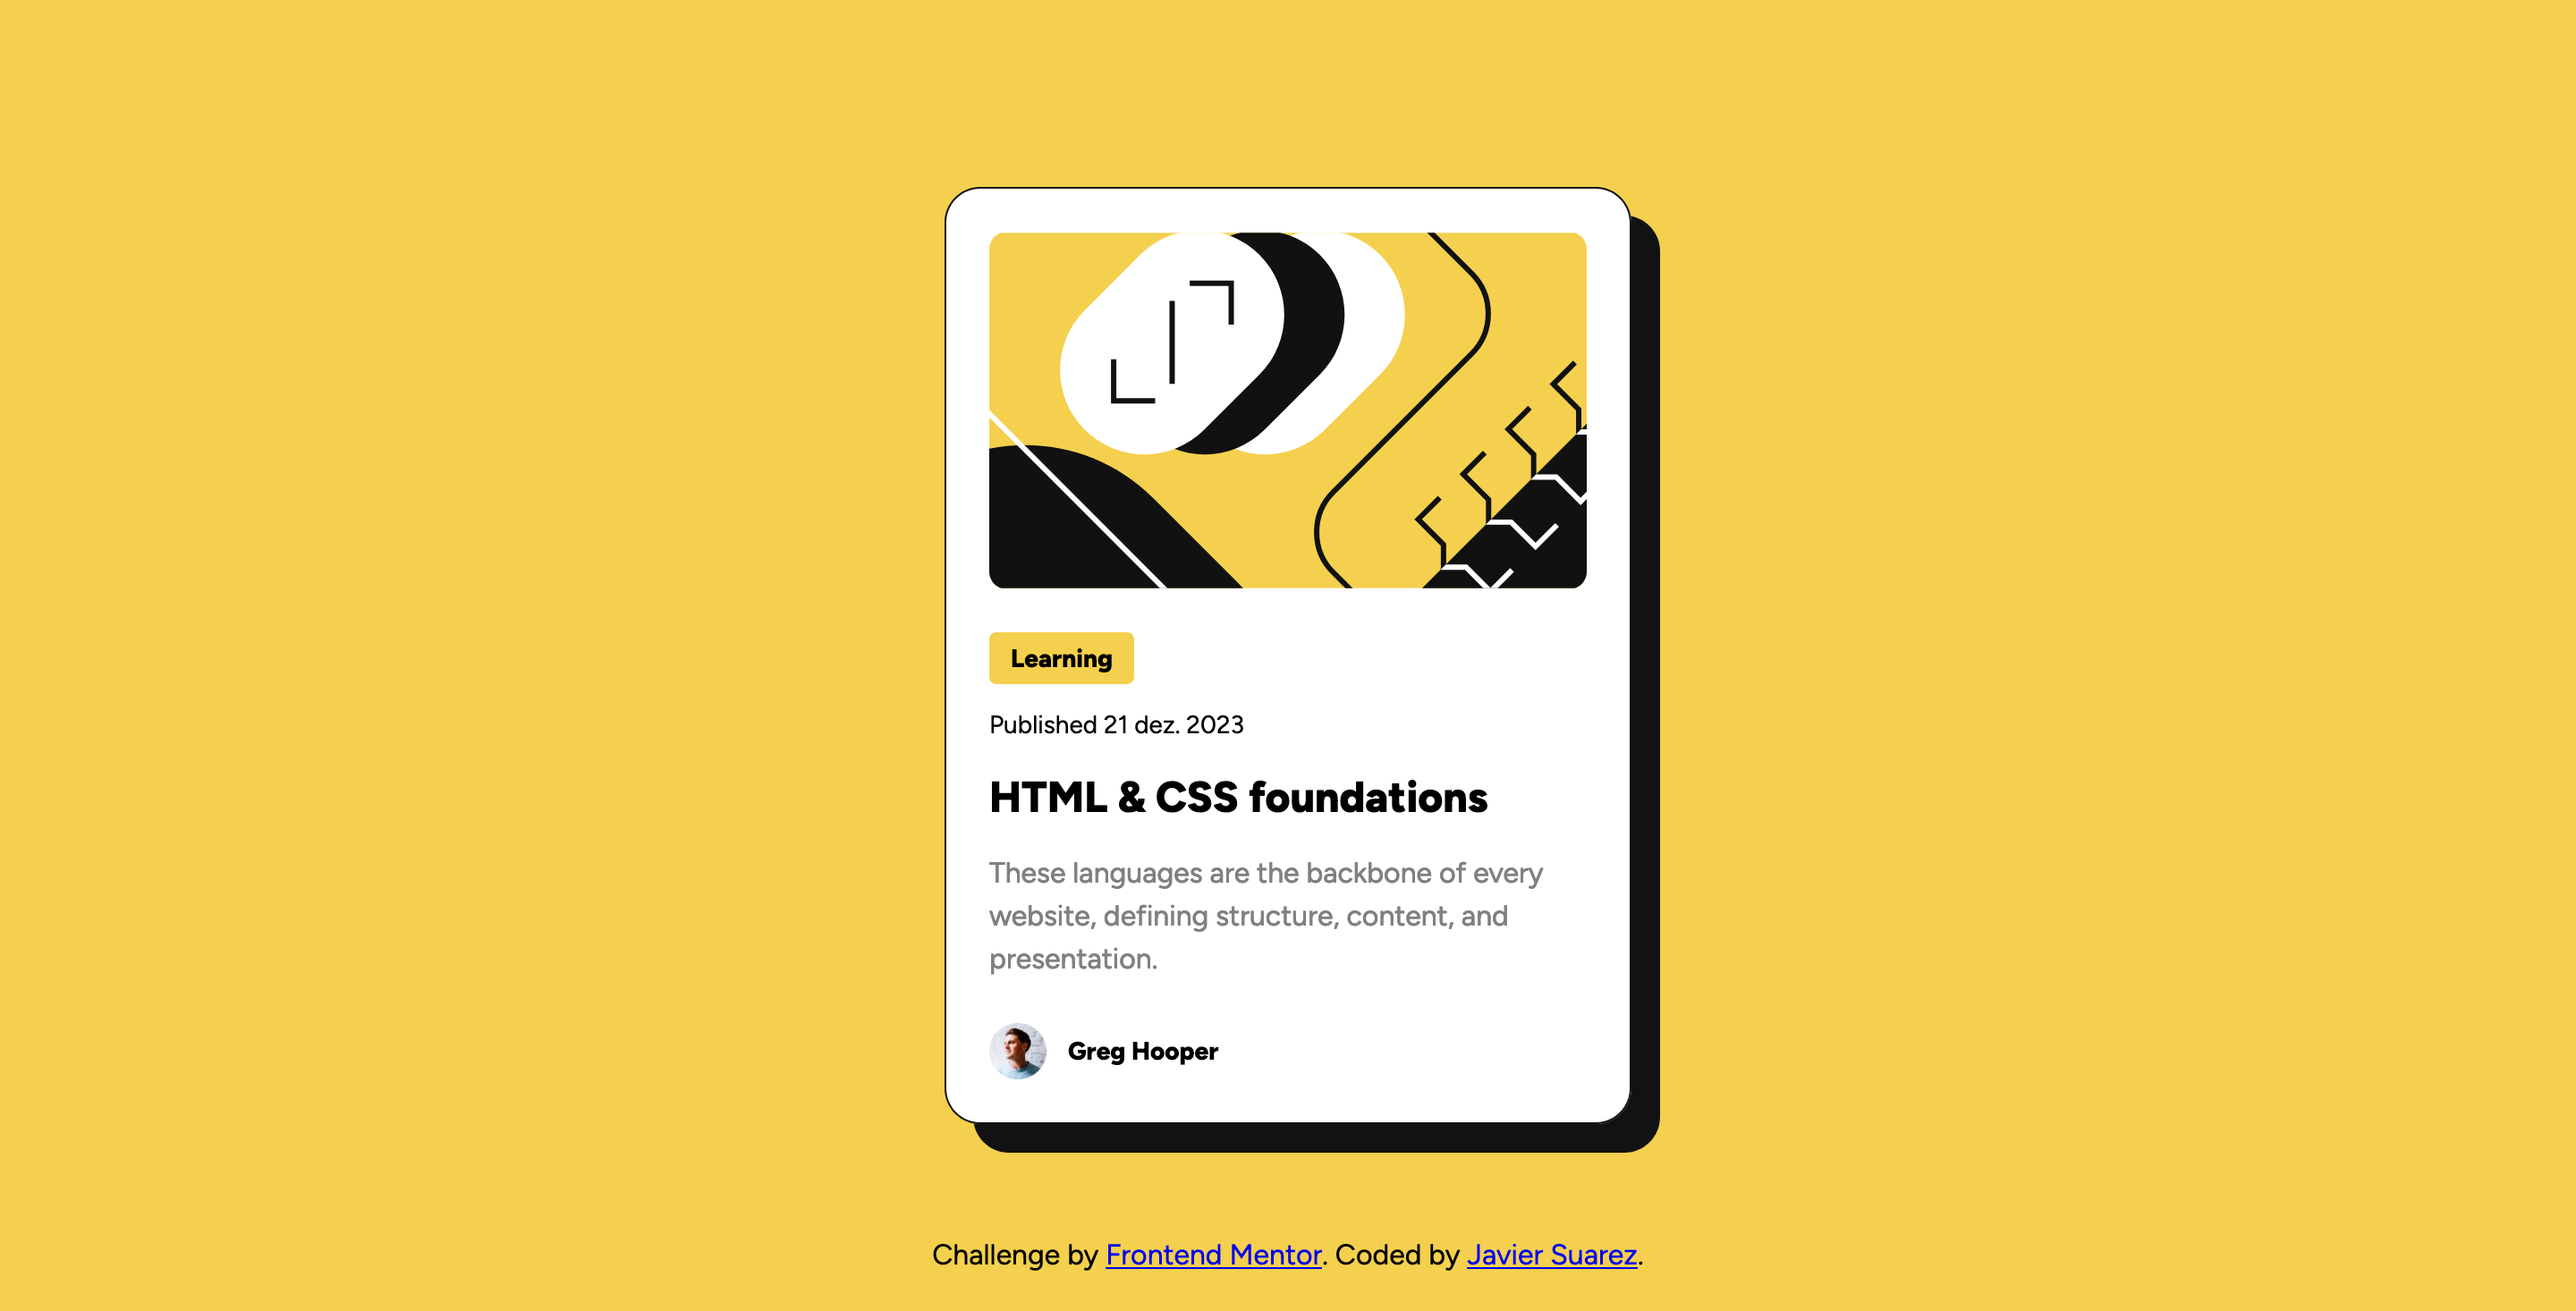
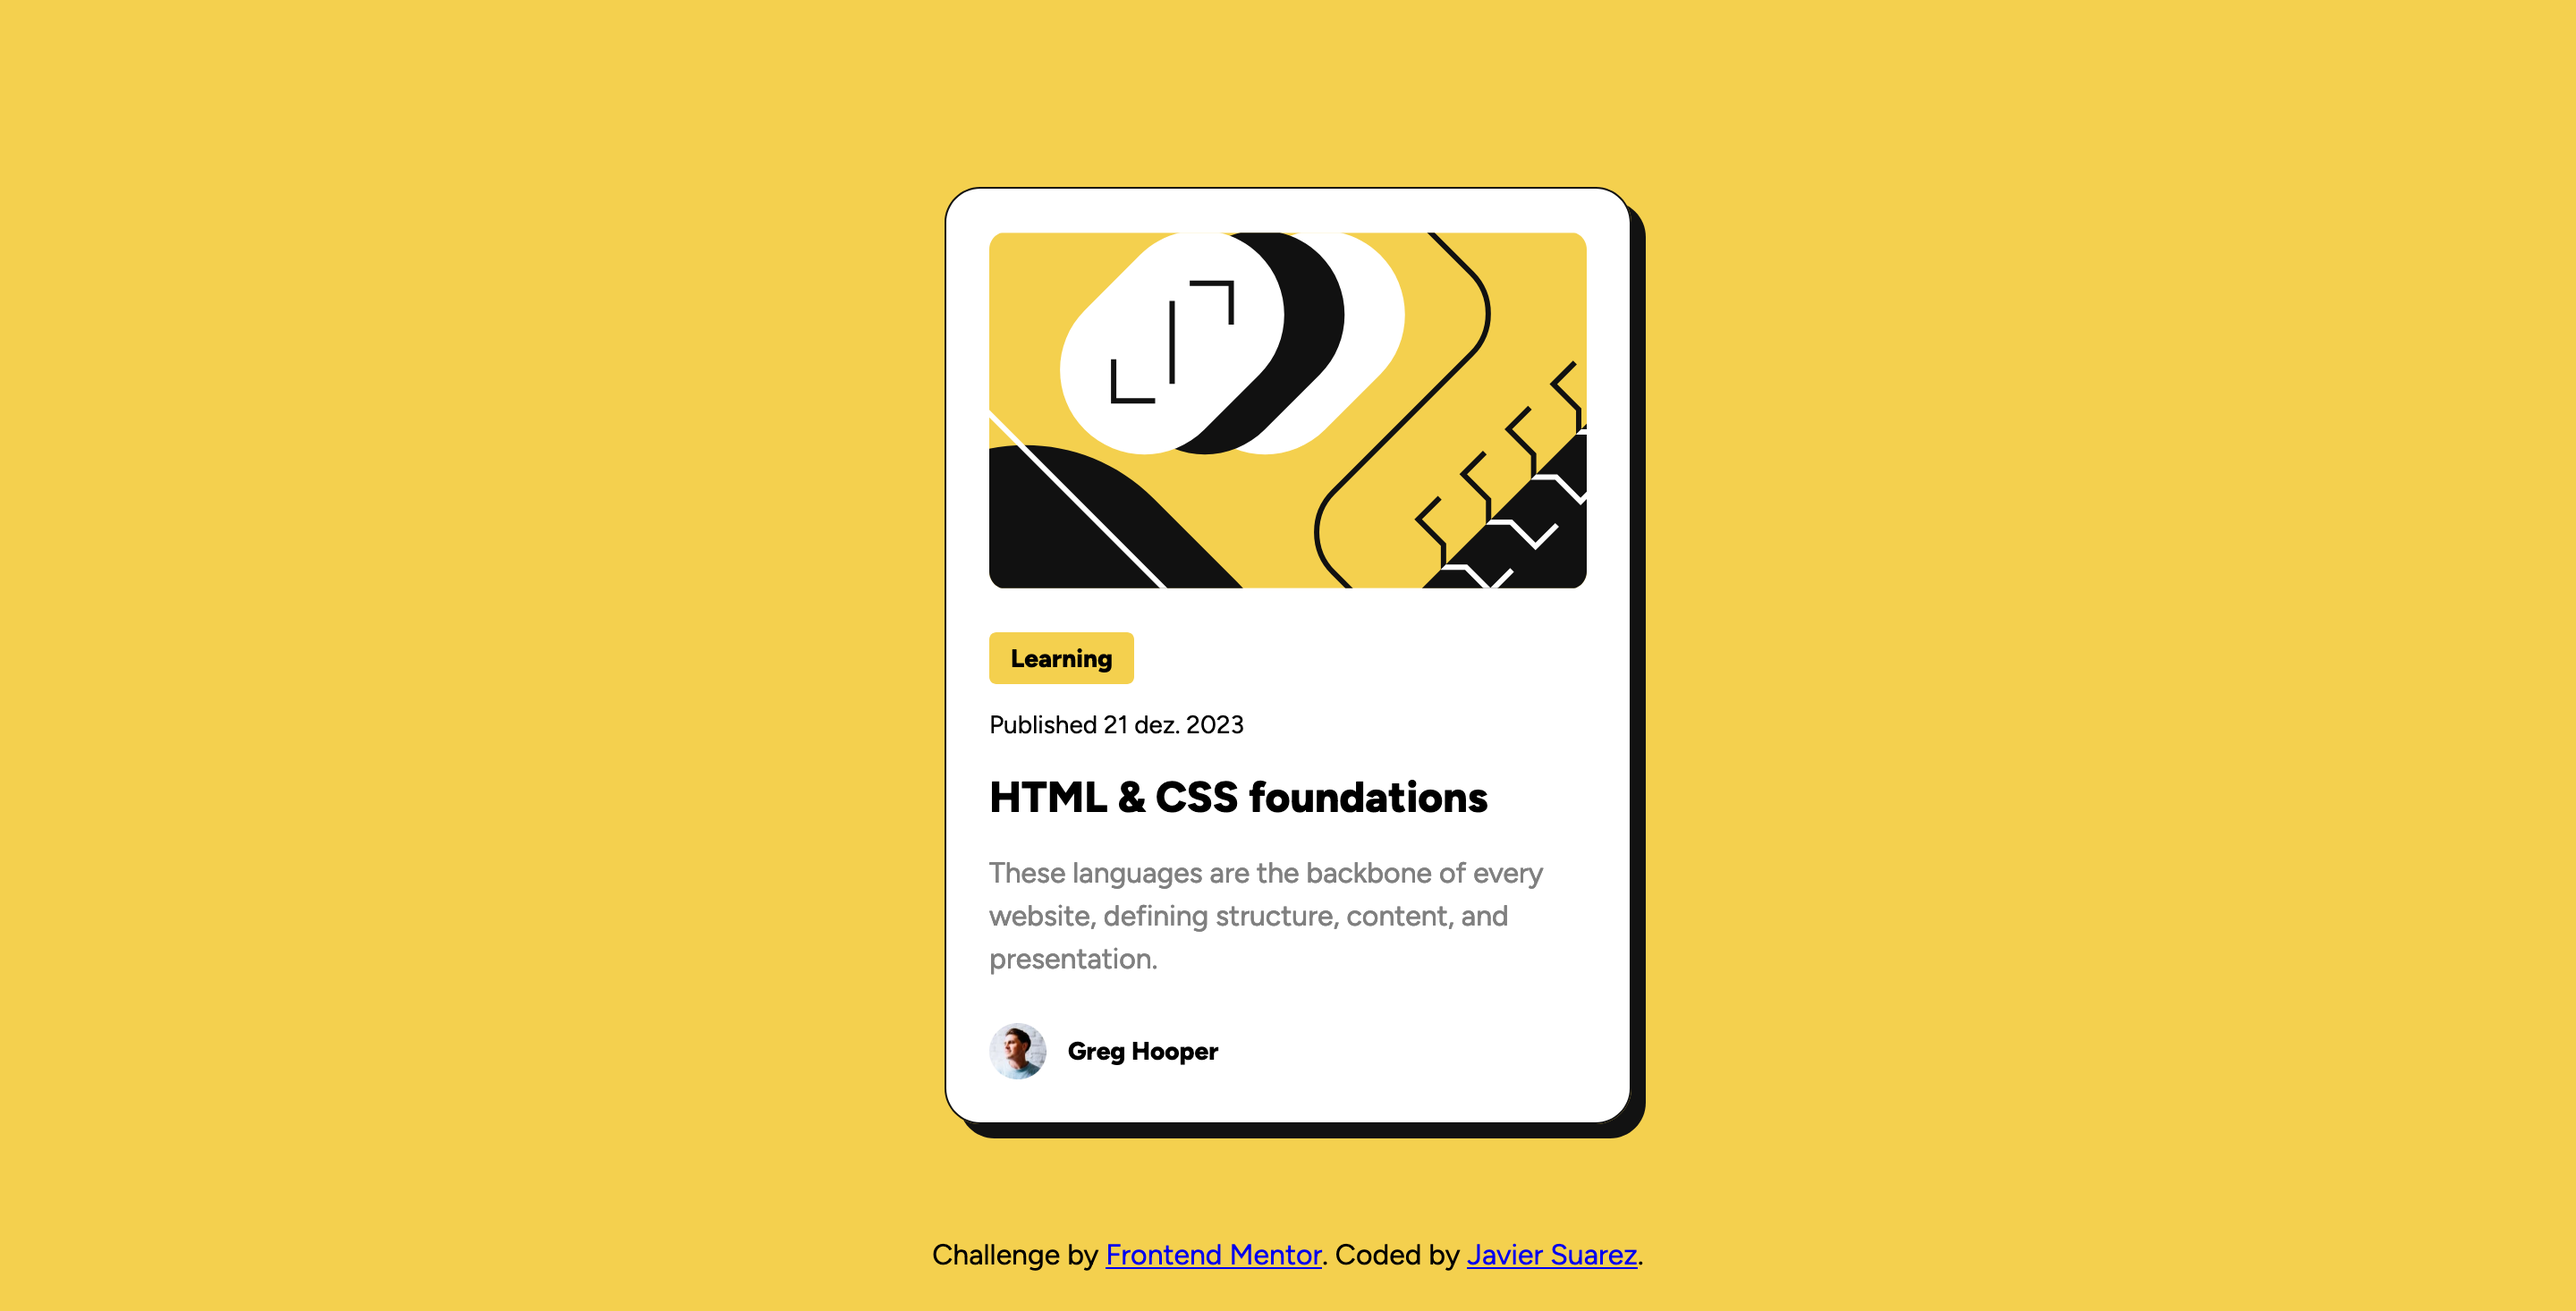
adjust card hover state and update screenshot

Changed region(s): [[0.375, 0.1842, 0.6562, 0.8902]]

diff --git a/src/components/blog-preview-card/BlogPreviewCard.module.scss b/src/components/blog-preview-card/BlogPreviewCard.module.scss
@@ -81,7 +81,12 @@
   }
 
   @media (min-width: 768px) {
-    box-shadow: 16px 16px 0px colors.$color-black;
+    transition: transform 0.2s ease-out, box-shadow 0.2s ease-out;
+
+    &:hover {
+      box-shadow: 16px 16px 0px colors.$color-black;
+      transform: translate(-0.4rem, -0.4rem);
+    }
 
     .cardMainContent {
       .label {
